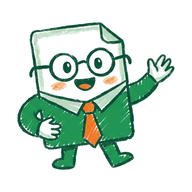
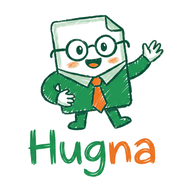
v1.4.1: ไอคอนแอปมีคำว่า Hugna
Claude-Session: https://claude.ai/code/session_01LPrzCb2mk4RkfbPf62JH6c

diff --git a/index.html b/index.html
@@ -9,23 +9,23 @@
 <meta name="mobile-web-app-capable" content="yes">
 <meta name="apple-mobile-web-app-status-bar-style" content="default">
 <meta name="apple-mobile-web-app-title" content="HugNa">
-<link rel="manifest" href="manifest.json?v=1.4.0">
-<link rel="icon" type="image/png" sizes="32x32" href="icons/favicon-32.png?v=1.4.0">
-<link rel="icon" type="image/png" sizes="64x64" href="icons/favicon-64.png?v=1.4.0">
-<link rel="apple-touch-icon" href="icons/apple-touch-icon.png?v=1.4.0">
+<link rel="manifest" href="manifest.json?v=1.4.1">
+<link rel="icon" type="image/png" sizes="32x32" href="icons/favicon-32.png?v=1.4.1">
+<link rel="icon" type="image/png" sizes="64x64" href="icons/favicon-64.png?v=1.4.1">
+<link rel="apple-touch-icon" href="icons/apple-touch-icon.png?v=1.4.1">
 <link rel="preconnect" href="https://fonts.googleapis.com">
 <link rel="preconnect" href="https://fonts.gstatic.com" crossorigin>
 <link href="https://fonts.googleapis.com/css2?family=Sarabun:wght@400;600;700&family=IBM+Plex+Sans+Thai:wght@400;500;600;700&display=swap" rel="stylesheet">
-<link rel="stylesheet" href="css/app.css?v=1.4.0">
+<link rel="stylesheet" href="css/app.css?v=1.4.1">
 </head>
 <body>
 
 <!-- ===== หน้าเริ่มต้น ===== -->
-<div id="boot" class="screen center"><img src="img/logo.png?v=1.4.0" alt="HugNa" class="logo"><p class="mute">กำลังโหลด…</p><p id="bootErr" class="err" hidden></p><button type="button" id="bootRetry" hidden>ลองใหม่</button></div>
+<div id="boot" class="screen center"><img src="img/logo.png?v=1.4.1" alt="HugNa" class="logo"><p class="mute">กำลังโหลด…</p><p id="bootErr" class="err" hidden></p><button type="button" id="bootRetry" hidden>ลองใหม่</button></div>
 
 <div id="scr-url" class="screen center" hidden>
   <form class="card auth" id="urlForm">
-    <img src="img/logo.png?v=1.4.0" alt="HugNa" class="logo">
+    <img src="img/logo.png?v=1.4.1" alt="HugNa" class="logo">
     <h1>ตั้งค่าระบบ HugNa</h1>
     <p class="mute">วาง URL ของ Apps Script Web App (ลงท้ายด้วย <code>/exec</code>) ตามขั้นตอนในไฟล์ SETUP.md</p>
     <label>URL ระบบ<input id="urlIn" type="url" inputmode="url" placeholder="https://script.google.com/macros/s/…/exec" required></label>
@@ -36,7 +36,7 @@
 
 <div id="scr-login" class="screen center" hidden>
   <form class="card auth" id="loginForm" autocomplete="on">
-    <img src="img/logo.png?v=1.4.0" alt="HugNa" class="logo">
+    <img src="img/logo.png?v=1.4.1" alt="HugNa" class="logo">
     <h1>เข้าสู่ระบบ HugNa</h1>
     <label>ชื่อผู้ใช้<input id="lgUser" autocomplete="username" autocapitalize="none" required></label>
     <label>รหัสผ่าน<input id="lgPass" type="password" autocomplete="current-password" required></label>
@@ -48,7 +48,7 @@
 
 <div id="scr-setup" class="screen center" hidden>
   <form class="card auth" id="setupForm">
-    <img src="img/logo.png?v=1.4.0" alt="HugNa" class="logo">
+    <img src="img/logo.png?v=1.4.1" alt="HugNa" class="logo">
     <h1>ตั้งค่าครั้งแรก</h1>
     <p class="mute">ยังไม่มีผู้ใช้ในระบบ สร้างบัญชีผู้ดูแล (admin) คนแรก</p>
     <label>ชื่อที่แสดง<input id="suName" required placeholder="เช่น คุณเมย์"></label>
@@ -63,7 +63,7 @@
 <!-- ===== แอป ===== -->
 <div id="app" hidden>
   <header class="top">
-    <div class="brand"><img src="img/mascot.png?v=1.4.0" alt="" class="mascot"><img src="img/wordmark.png?v=1.4.0" alt="HugNa" class="wm"></div>
+    <div class="brand"><img src="img/mascot.png?v=1.4.1" alt="" class="mascot"><img src="img/wordmark.png?v=1.4.1" alt="HugNa" class="wm"></div>
     <select id="coSel" aria-label="ออกในนามบริษัท"></select>
   </header>
   <div class="updbar" id="updBar" hidden><span>มีเวอร์ชันใหม่ <b id="updV"></b></span><button type="button" id="updNow">อัปเดตเลย</button></div>
@@ -237,10 +237,10 @@
 <div class="ov" id="ov" hidden><div class="dlg" id="dlg"></div></div>
 <div class="toast" id="toast" role="status"></div>
 
-<script src="js/config.js?v=1.4.0"></script>
-<script src="js/api.js?v=1.4.0"></script>
-<script src="js/cert.js?v=1.4.0"></script>
-<script src="js/scan.js?v=1.4.0"></script>
-<script src="js/app.js?v=1.4.0"></script>
+<script src="js/config.js?v=1.4.1"></script>
+<script src="js/api.js?v=1.4.1"></script>
+<script src="js/cert.js?v=1.4.1"></script>
+<script src="js/scan.js?v=1.4.1"></script>
+<script src="js/app.js?v=1.4.1"></script>
 </body>
 </html>

diff --git a/sw.js b/sw.js
@@ -1,6 +1,6 @@
 /* HugNa — service worker
  * VERSION ถูกแก้โดย scripts/bump-version.sh — เปลี่ยนเลขแล้วเบราว์เซอร์จะติดตั้ง SW ใหม่และล้างแคชเก่า */
-const VERSION = '1.4.0';
+const VERSION = '1.4.1';
 const CACHE = 'hugna-' + VERSION;
 const SHELL = ['./', 'index.html', 'icons/icon-192.png', 'img/logo.png', 'img/mascot.png', 'img/wordmark.png'];
 

diff --git a/js/config.js b/js/config.js
@@ -2,7 +2,7 @@
  * API_URL = URL ของ Apps Script Web App (ลงท้ายด้วย /exec)
  * VERSION จะถูกแก้อัตโนมัติด้วย scripts/bump-version.sh — อย่าแก้เอง */
 window.HUGNA_CONFIG = {
-  VERSION: '1.4.0',
+  VERSION: '1.4.1',
   API_URL: 'https://script.google.com/macros/s/AKfycbzkiifhCDfL4DgNFxz1zuNsFn9aGKfEUKRd_ZMjG1NSiEo0uVCixl40A1v188eqh-WU/exec',
   REPO: 'jsungkapo/Hugna'
 };

diff --git a/PROJECT_NOTES.md b/PROJECT_NOTES.md
@@ -21,7 +21,7 @@
 
 ## แบรนด์ / ธีม
 - โลโก้: ตัวมาสคอตกระดาษใส่แว่น ชุดเขียว เนกไทส้ม + ตัวอักษร "Hugna" (Hug เขียว / na ส้ม) — ไฟล์ต้นฉบับจากผู้ใช้ ตัดเป็น `img/logo.png` (เต็ม), `img/mascot.png`, `img/wordmark.png` พื้นโปร่งใส
-- ไอคอน: `icons/` (favicon 32/64 = มาสคอตพื้นโปร่ง, apple-touch 180, 192, 512, maskable 512 = มาสคอตบนพื้นขาว)
+- ไอคอน: `icons/` — favicon 32/64 = มาสคอตอย่างเดียว (พื้นโปร่ง); apple-touch 180, 192, 512, maskable 512 = มาสคอต + คำว่า Hugna บนพื้นขาว (ผู้ใช้ขอให้ไอคอน iPhone มีคำว่า hugna)
 - สีหลัก (css/app.css): `--brand` เขียว #187a3e, `--accent` ส้ม (ตัวเลขภาษี/ไฮไลต์), `--danger` แดง (ลบ/ผิดพลาด), พื้นอมเขียว; หัวแอปพื้นขาวเส้นล่างเขียว
 - โหมดมืด: โลโก้วางบนป้ายขาวเพื่อให้เส้นเขียวเข้มยังเห็น
 - ตัวใบ 50 ทวิ ใช้สีเอกสารทางการ (ขาว/ดำ/หมึกน้ำเงิน) ไม่เปลี่ยนตามธีม
@@ -109,6 +109,7 @@ Apps Script Web App  …/exec
 - `bootstrap` ส่งเอกสารทั้งหมด — ถ้าเกินหลายพันใบ ควรทำแบ่งหน้า/กรองตามปีฝั่ง backend
 
 ## สถานะล่าสุด
+- v1.4.1 (2026-11-26): ไอคอนแอป (iPhone/Android) มีคำว่า Hugna ใต้มาสคอต
 - v1.4.0 (2026-11-26): ธีมสีเขียว-ส้มตามโลโก้, โลโก้ในหน้าแอป/หน้าล็อกอิน, ไอคอนแท็บเบราว์เซอร์และไอคอน iPhone ใหม่
 - v1.3.1 (2026-11-26): login เร็วขึ้น — `login`/`setup` รับ `withData:true` แล้วส่งข้อมูล bootstrap กลับมาในคำขอเดียว; backend แคชการอ่านชีตภายในคำขอ (ROWS_/HEAD_, ล้างเมื่อเขียนหรือเข้า lock), อ่านแท็บด้วย getDataRange ครั้งเดียว, ตรวจหัวคอลัมน์ครั้งเดียวต่อเวอร์ชัน (CacheService 6 ชม.), แคชเซสชัน 6 ชม.
 - v1.3.0 (2026-11-26): แนบรูปบัตรประชาชนกับรายชื่อ และแนบ invoice (รูป/PDF) กับใบ — ทดสอบกับ mock แล้ว

diff --git a/CHANGELOG.md b/CHANGELOG.md
@@ -2,6 +2,9 @@
 
 ทุกเวอร์ชันมี git tag `vX.Y.Z` ไว้ย้อนกลับได้ — ดูวิธีย้อนใน PROJECT_NOTES.md
 
+## v1.4.1 — 2026-11-26
+- ไอคอนแอปบน iPhone มีคำว่า Hugna ใต้มาสคอต
+
 ## v1.4.0 — 2026-11-26
 - ธีมสีเขียว-ส้มตามโลโก้ Hugna · โลโก้ในหน้าแอปและหน้าล็อกอิน · ไอคอนแท็บเบราว์เซอร์และไอคอนบน iPhone ใหม่
 
